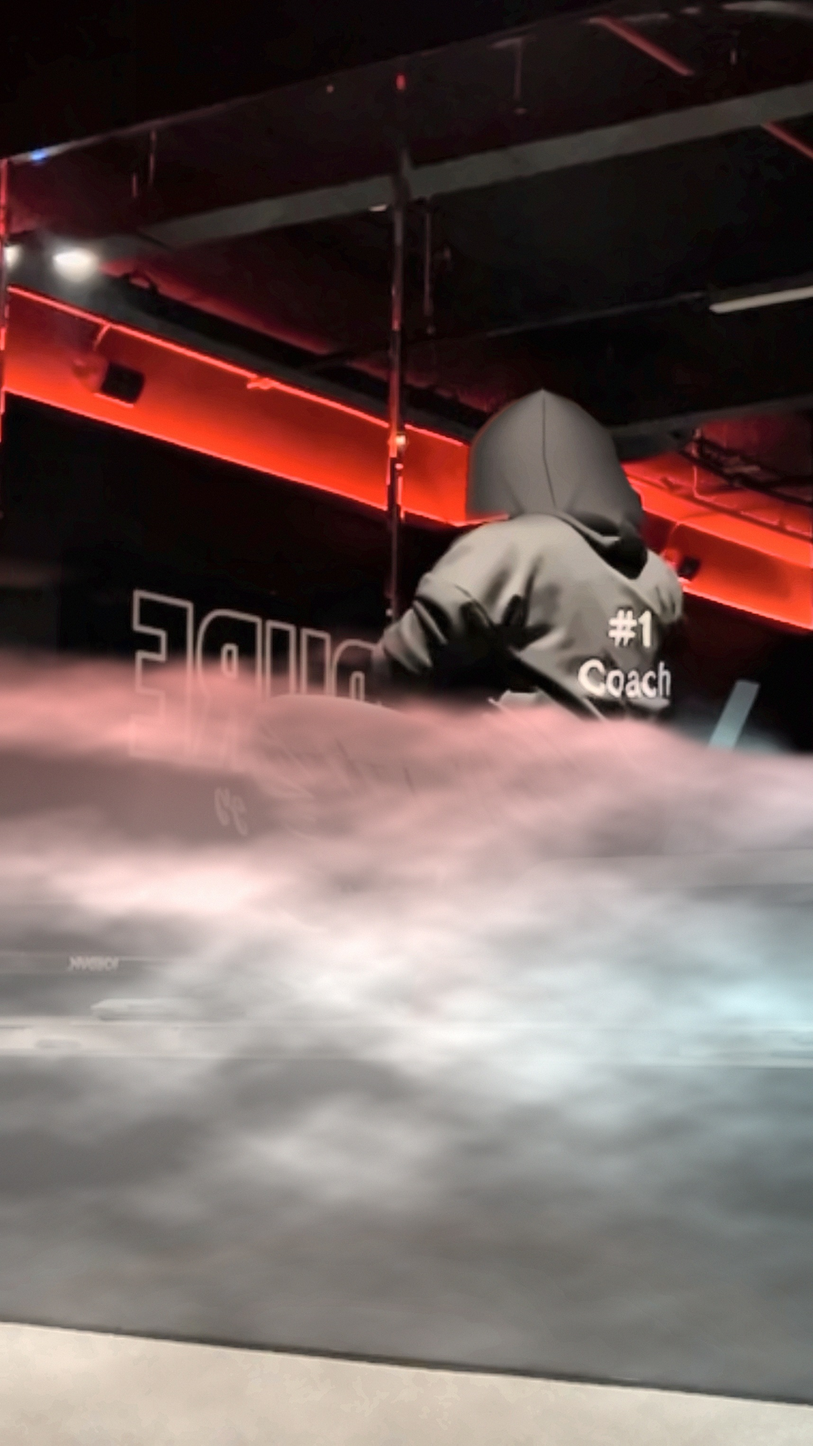
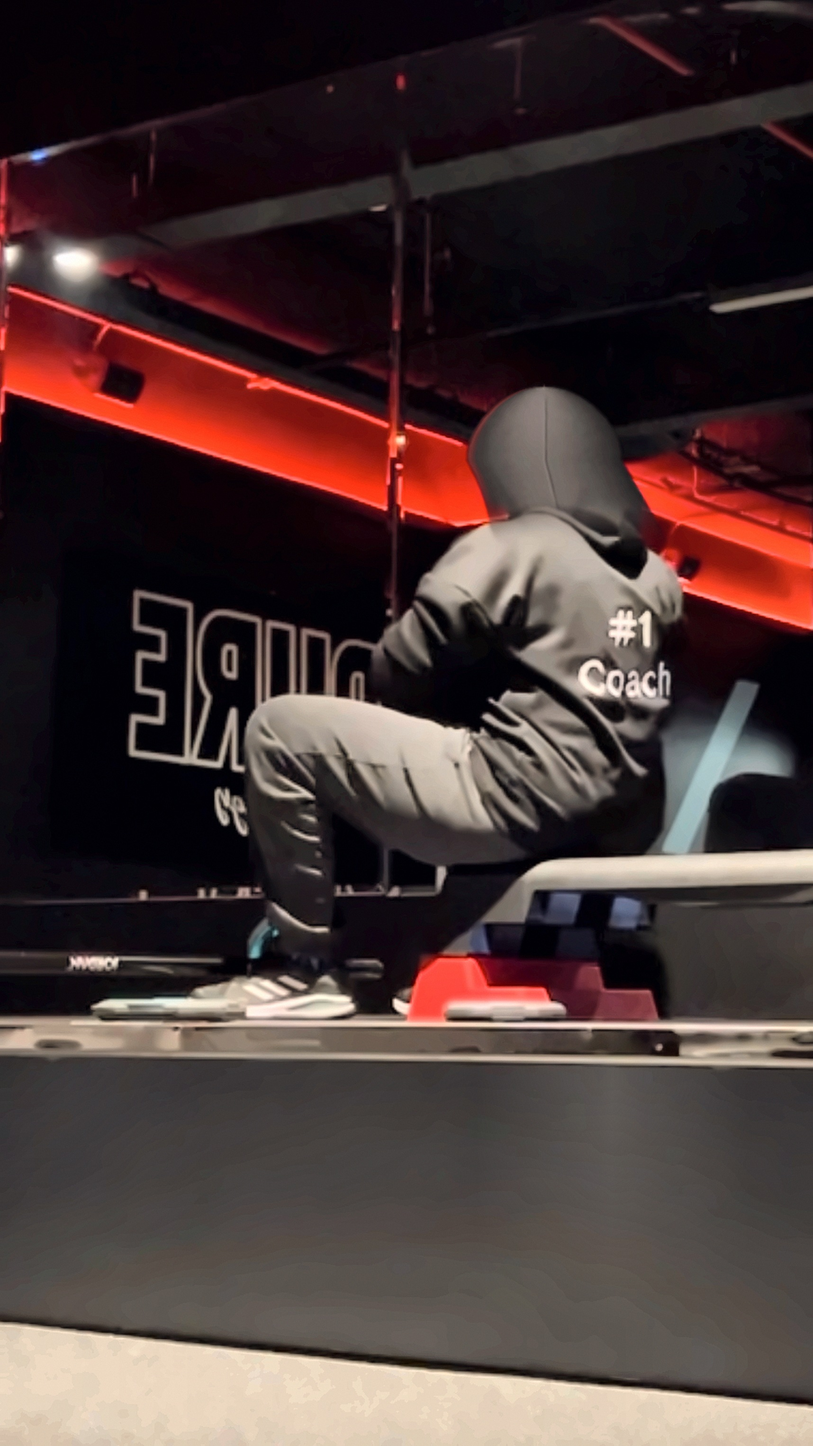
Coach photo: remove fog, rebuild hood with rounder shape, texture and rim light
Claude-Session: https://claude.ai/code/session_018Z9fQ6WXKqVkgdznS9iWHe

diff --git a/pdf/photo_hood.py b/pdf/photo_hood.py
@@ -1,44 +1,47 @@
 import numpy as np, cv2
 img=cv2.imread('images/4.jpg').astype(np.float32)
-H,W=img.shape[:2]
-yy,xx=np.mgrid[0:H,0:W].astype(np.float32)
-top,yc,ybot=697.,768.,860.
-# centre line drifts slightly right going down (hood falls toward the fold)
-cxy=np.where(yy<yc,572.,572.+(yy-yc)*0.22)
-# half width: rounded, slightly peaked dome above yc, gentle flare below
+H,W=img.shape[:2]; yy,xx=np.mgrid[0:H,0:W].astype(np.float32)
+rng=np.random.default_rng(9)
+top,yc,ybot=694.,772.,868.
+cxy=np.where(yy<yc,574.,574.+(yy-yc)*0.25)
 u=np.clip((yy-top)/(yc-top),0,1)
-w_top=78*np.power(np.sin(u*np.pi/2),0.8)
-w_bot=78+np.clip(yy-yc,0,None)*0.28
-half=np.where(yy<yc,w_top,w_bot)
+w_top=82*np.power(np.sin(u*np.pi/2),0.5)          # rounder crown, no point
+dy=np.clip(yy-yc,0,None)
+wl=82-dy*0.10-4*np.sin(np.clip(dy/70,0,1)*np.pi)   # left side tucks in toward the neck
+wr=82+dy*0.32
+half=np.where(xx<cxy,np.where(yy<yc,w_top,wl),np.where(yy<yc,w_top,wr))
 nx=(xx-cxy)/np.maximum(half,1)
 inside=(np.abs(nx)<=1)&(yy>=top)&(yy<=ybot)
-mask=inside.astype(np.float32)
-# feather: soft sides, long fade into the real hoodie fold at the bottom
-mask=cv2.GaussianBlur(mask,(0,0),1.8)
-fade=np.clip((ybot-8-yy)/34,0,1); fade=fade*fade*(3-2*fade)
-mask*=np.where(yy>ybot-42,fade,1)
-# ---------- colour (BGR) from the real hood fold at the neck
-fold=np.median(img[800:850,540:640].reshape(-1,3),0)
-base=fold*np.clip(0.80+0.20*(yy-top)/(ybot-top),0.8,1.0)[...,None]
-cyl=np.clip(1-0.55*np.abs(nx)**2.2,0.35,1)            # round volume
-topl=np.exp(-(((xx-548)/55)**2+((yy-728)/42)**2))       # soft overhead highlight
-col=base*cyl[...,None]*(1+0.16*topl[...,None])
-# fabric folds: two soft diagonal creases near the bottom
-for x0,ang,st in [(535,0.55,0.18),(612,-0.45,0.15)]:
-    d=(xx-(x0+(yy-800)*ang))
-    crease=np.exp(-(d/5)**2)*np.clip((yy-782)/40,0,1)*np.clip((850-yy)/30,0,1)
-    col*=(1-st*crease[...,None])
-# centre seam (soft) following the dome
-sx=cxy+1.5
-seam=np.exp(-((xx-sx)/1.6)**2)*np.clip((yy-top-4)/10,0,1)*np.clip((835-yy)/20,0,1)
-col*=(1-0.22*seam[...,None])
-col+=np.exp(-((xx-sx+3.5)/2)**2)[...,None]*seam.max()*0*0
-# faint red neon rim on the left edge
-rim=np.exp(-((nx+0.97)/0.07)**2)*(yy<840)
-col[...,2]+=rim*45; col[...,1]+=rim*4
-# grain like the photo
-rng=np.random.default_rng(7); col+=rng.normal(0,3.5,col.shape).astype(np.float32)
-col=cv2.GaussianBlur(col,(0,0),0.8)
+mask=cv2.GaussianBlur(inside.astype(np.float32),(0,0),1.5)
+fade=np.clip((ybot-yy)/60,0,1); fade=fade*fade*(3-2*fade)   # long, soft blend into the collar
+mask*=np.where(yy>ybot-60,fade,1)
+# ---- tone from the real hood fold / hoodie
+fold=np.median(img[805:850,545:635].reshape(-1,3),0)
+base=fold*0.86
+ny=np.clip((yy-top)/(ybot-top),0,1)
+cyl=np.clip(1-0.62*np.abs(nx)**2.0,0.3,1)                 # round volume
+side=1+0.10*np.clip(-nx,0,1)-0.12*np.clip(nx,0,1)          # light from left
+crown=np.exp(-(((xx-560)/60)**2+((yy-722)/40)**2))*0.14    # soft top highlight
+col=base*(cyl*side*(0.92+0.10*ny)+crown)[...,None]
+# centre seam: subtle recessed line + highlight next to it
+sx=cxy+2
+seam=np.exp(-((xx-sx)/1.4)**2)*np.clip((yy-top-6)/12,0,1)*np.clip((840-yy)/25,0,1)
+hl=np.exp(-((xx-sx+3.5)/2.4)**2)*np.clip((yy-top-6)/12,0,1)*np.clip((835-yy)/30,0,1)
+col=col*(1-0.20*seam[...,None])+hl[...,None]*base*0.08
+# drape folds toward the neck
+for x0,ang,st,w in [(532,0.55,0.16,6),(618,-0.45,0.14,7)]:
+    dd=xx-(x0+(yy-805)*ang)
+    cr=np.exp(-(dd/w)**2)*np.clip((yy-790)/30,0,1)*np.clip((862-yy)/30,0,1)
+    col*=(1-st*cr[...,None])
+# red neon rim along the left silhouette
+rim=np.exp(-((nx+0.96)/0.06)**2)*np.clip((850-yy)/60,0,1)
+col[...,2]+=rim*55; col[...,1]+=rim*5; col[...,0]+=rim*7
+# fine knit texture (procedural, very low amplitude) + camera grain
+n=cv2.GaussianBlur(rng.normal(0,1,(H,W)).astype(np.float32),(0,0),0.9)*4.5
+col+=n[...,None]+rng.normal(0,2.0,col.shape).astype(np.float32)
+col=cv2.GaussianBlur(col,(0,0),0.55)
 out=np.clip(img*(1-mask[...,None])+col*mask[...,None],0,255).astype(np.uint8)
-cv2.imwrite('scratchpad/hood2.png',out)
-cv2.imwrite('scratchpad/hood2_zoom.png',cv2.resize(out[600:1150,350:800],None,fx=1.2,fy=1.2))
+cv2.imwrite('scratchpad/hood5.png',out)
+o=cv2.imread('images/4.jpg'); p=cv2.imread('scratchpad/hood2.png')
+z=lambda a:cv2.resize(a[640:1000,420:760],None,fx=1.6,fy=1.6,interpolation=cv2.INTER_CUBIC)
+cv2.imwrite('scratchpad/hcmp5.png',np.hstack([z(o),z(p),z(out)]))

diff --git a/pdf/photo_grade.py b/pdf/photo_grade.py
@@ -1,0 +1,19 @@
+import numpy as np, cv2
+im=cv2.imread('scratchpad/hood5.png')[287:1813,0:858]
+im=cv2.fastNlMeansDenoisingColored(im,None,3,3,7,21)
+im=cv2.resize(im,None,fx=2,fy=2,interpolation=cv2.INTER_LANCZOS4)
+lab=cv2.cvtColor(im,cv2.COLOR_BGR2LAB); L,a,b=cv2.split(lab)
+L=cv2.createCLAHE(clipLimit=1.4,tileGridSize=(6,6)).apply(L)
+im=cv2.cvtColor(cv2.merge([L,a,b]),cv2.COLOR_LAB2BGR).astype(np.float32)/255
+# gentle S-curve + slightly cooler shadows, mild saturation
+im=np.clip((im-0.5)*1.06+0.5+0.01,0,1)
+lum=(0.114*im[...,0]+0.587*im[...,1]+0.299*im[...,2])[...,None]
+im[...,0:1]+=0.025*np.clip(1-lum*2.5,0,1)
+hsv=cv2.cvtColor(im,cv2.COLOR_BGR2HSV); hsv[...,1]=np.clip(hsv[...,1]*1.08,0,1)
+im=cv2.cvtColor(hsv,cv2.COLOR_HSV2BGR)
+im=np.clip(im+0.45*(im-cv2.GaussianBlur(im,(0,0),1.8)),0,1)
+im=np.clip(im+np.random.default_rng(2).normal(0,0.008,im.shape).astype(np.float32),0,1)
+out=(im*255).astype(np.uint8)
+cv2.imwrite('/home/user/content-videos/pdf/coach-split-squat.jpg',out,[cv2.IMWRITE_JPEG_QUALITY,93])
+cv2.imwrite('scratchpad/final_small.jpg',cv2.resize(out,None,fx=0.45,fy=0.45))
+cv2.imwrite('scratchpad/final_head.jpg',out[650:1350,700:1500])
